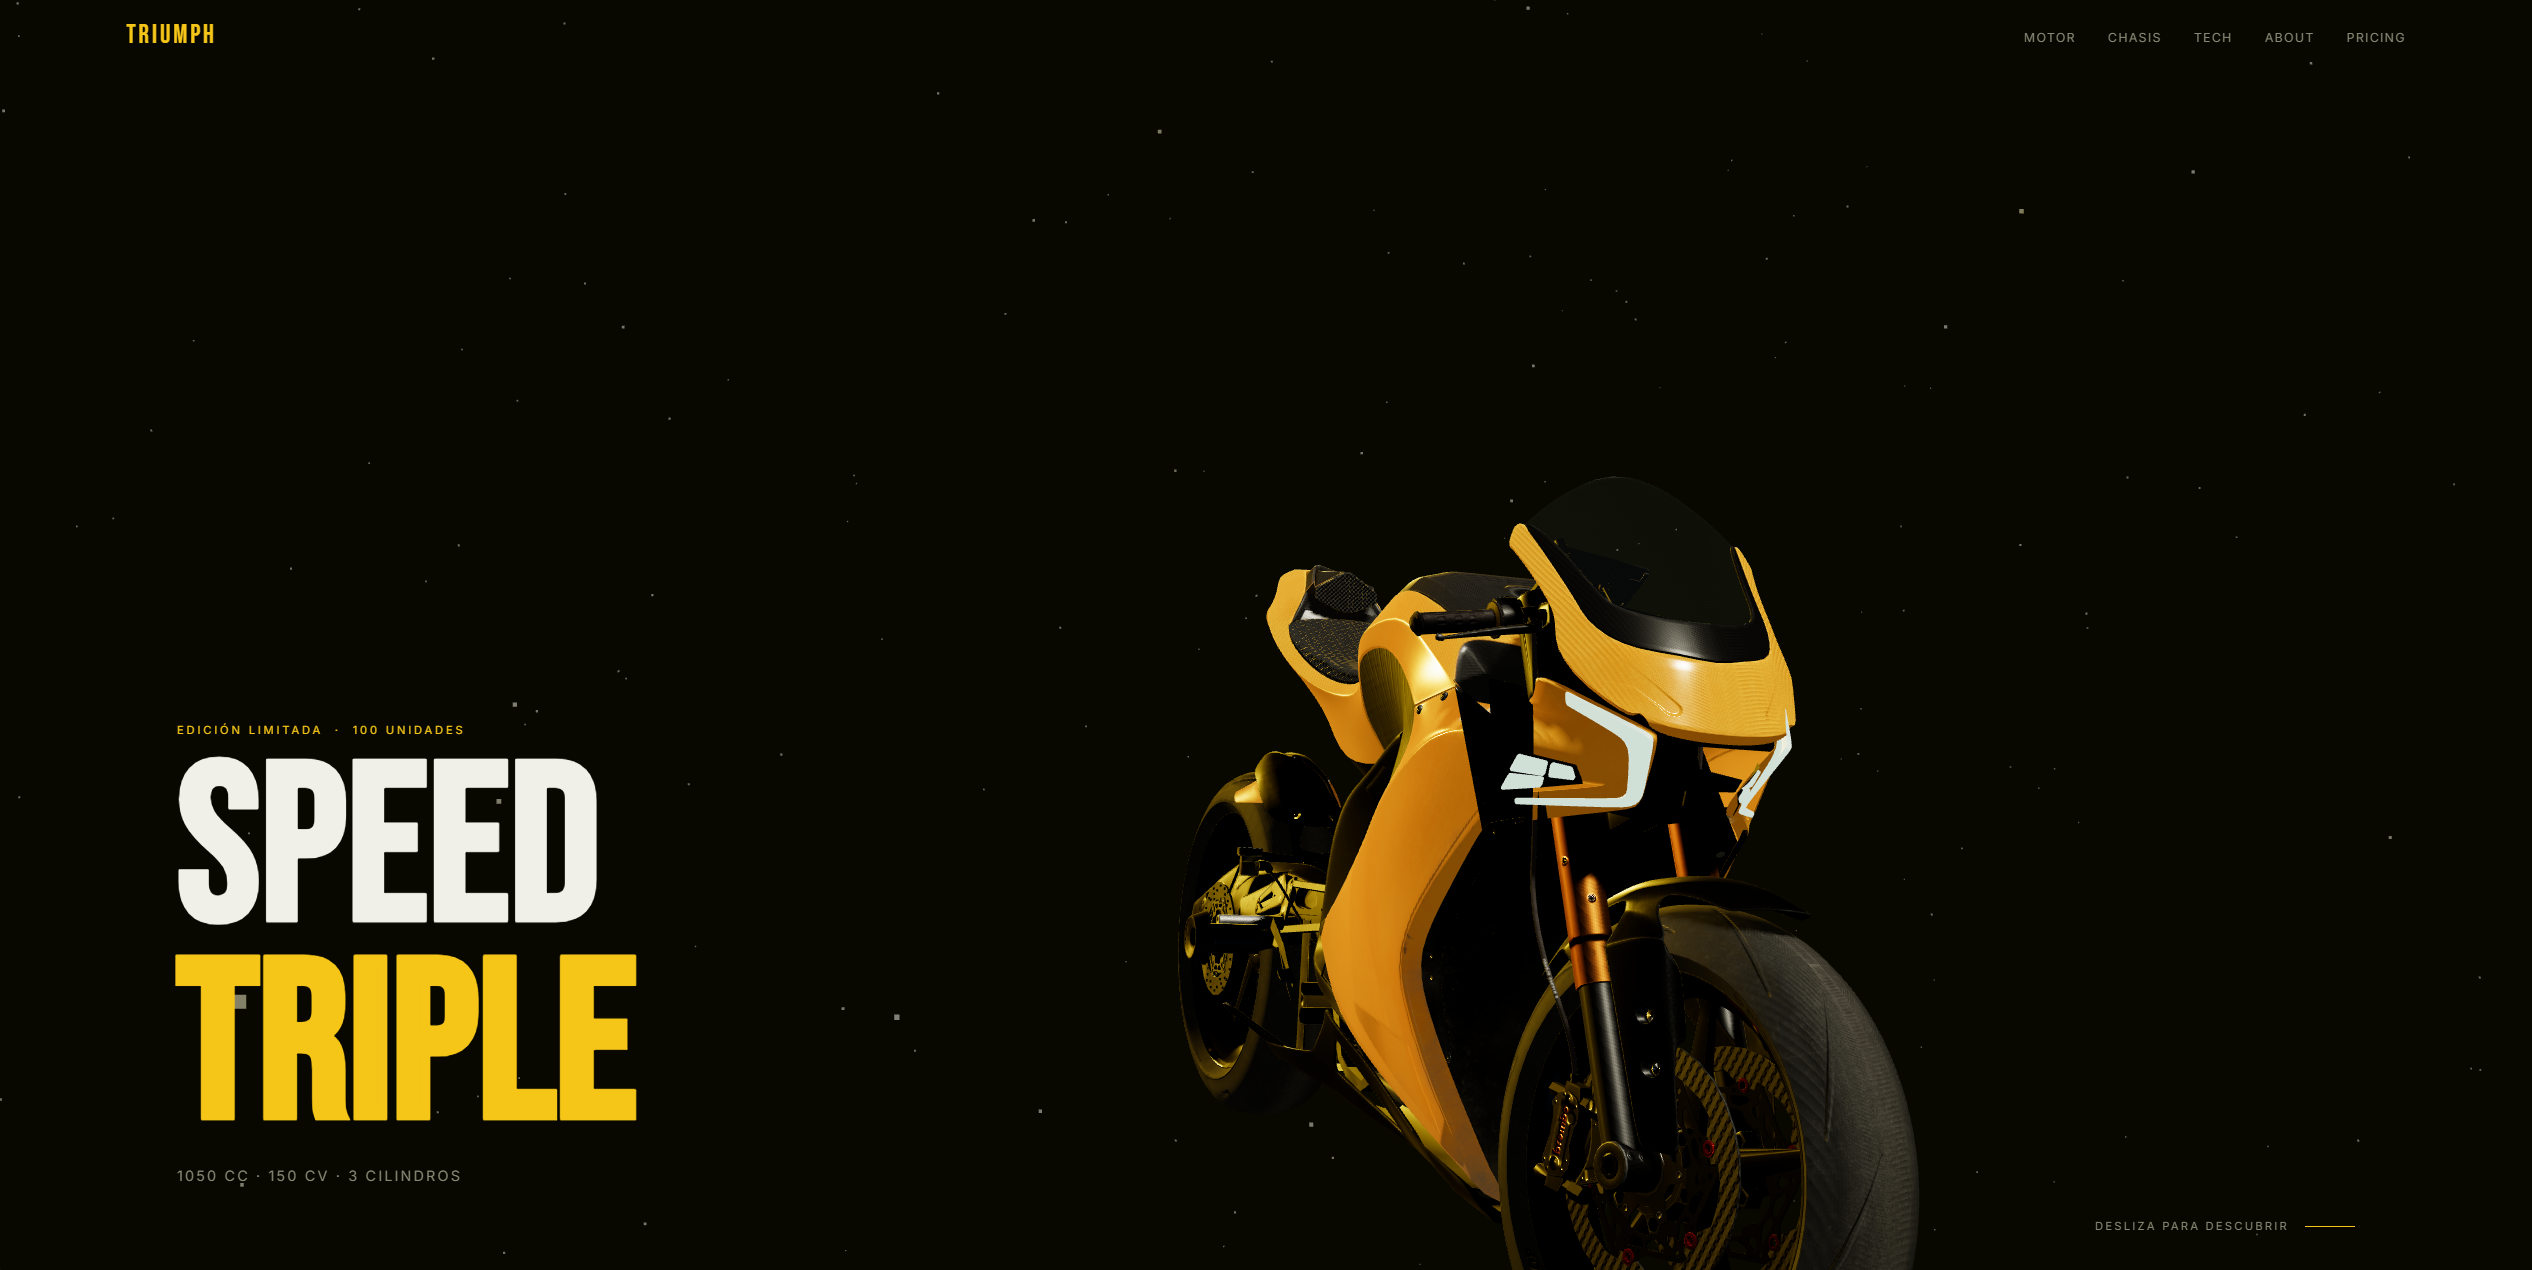
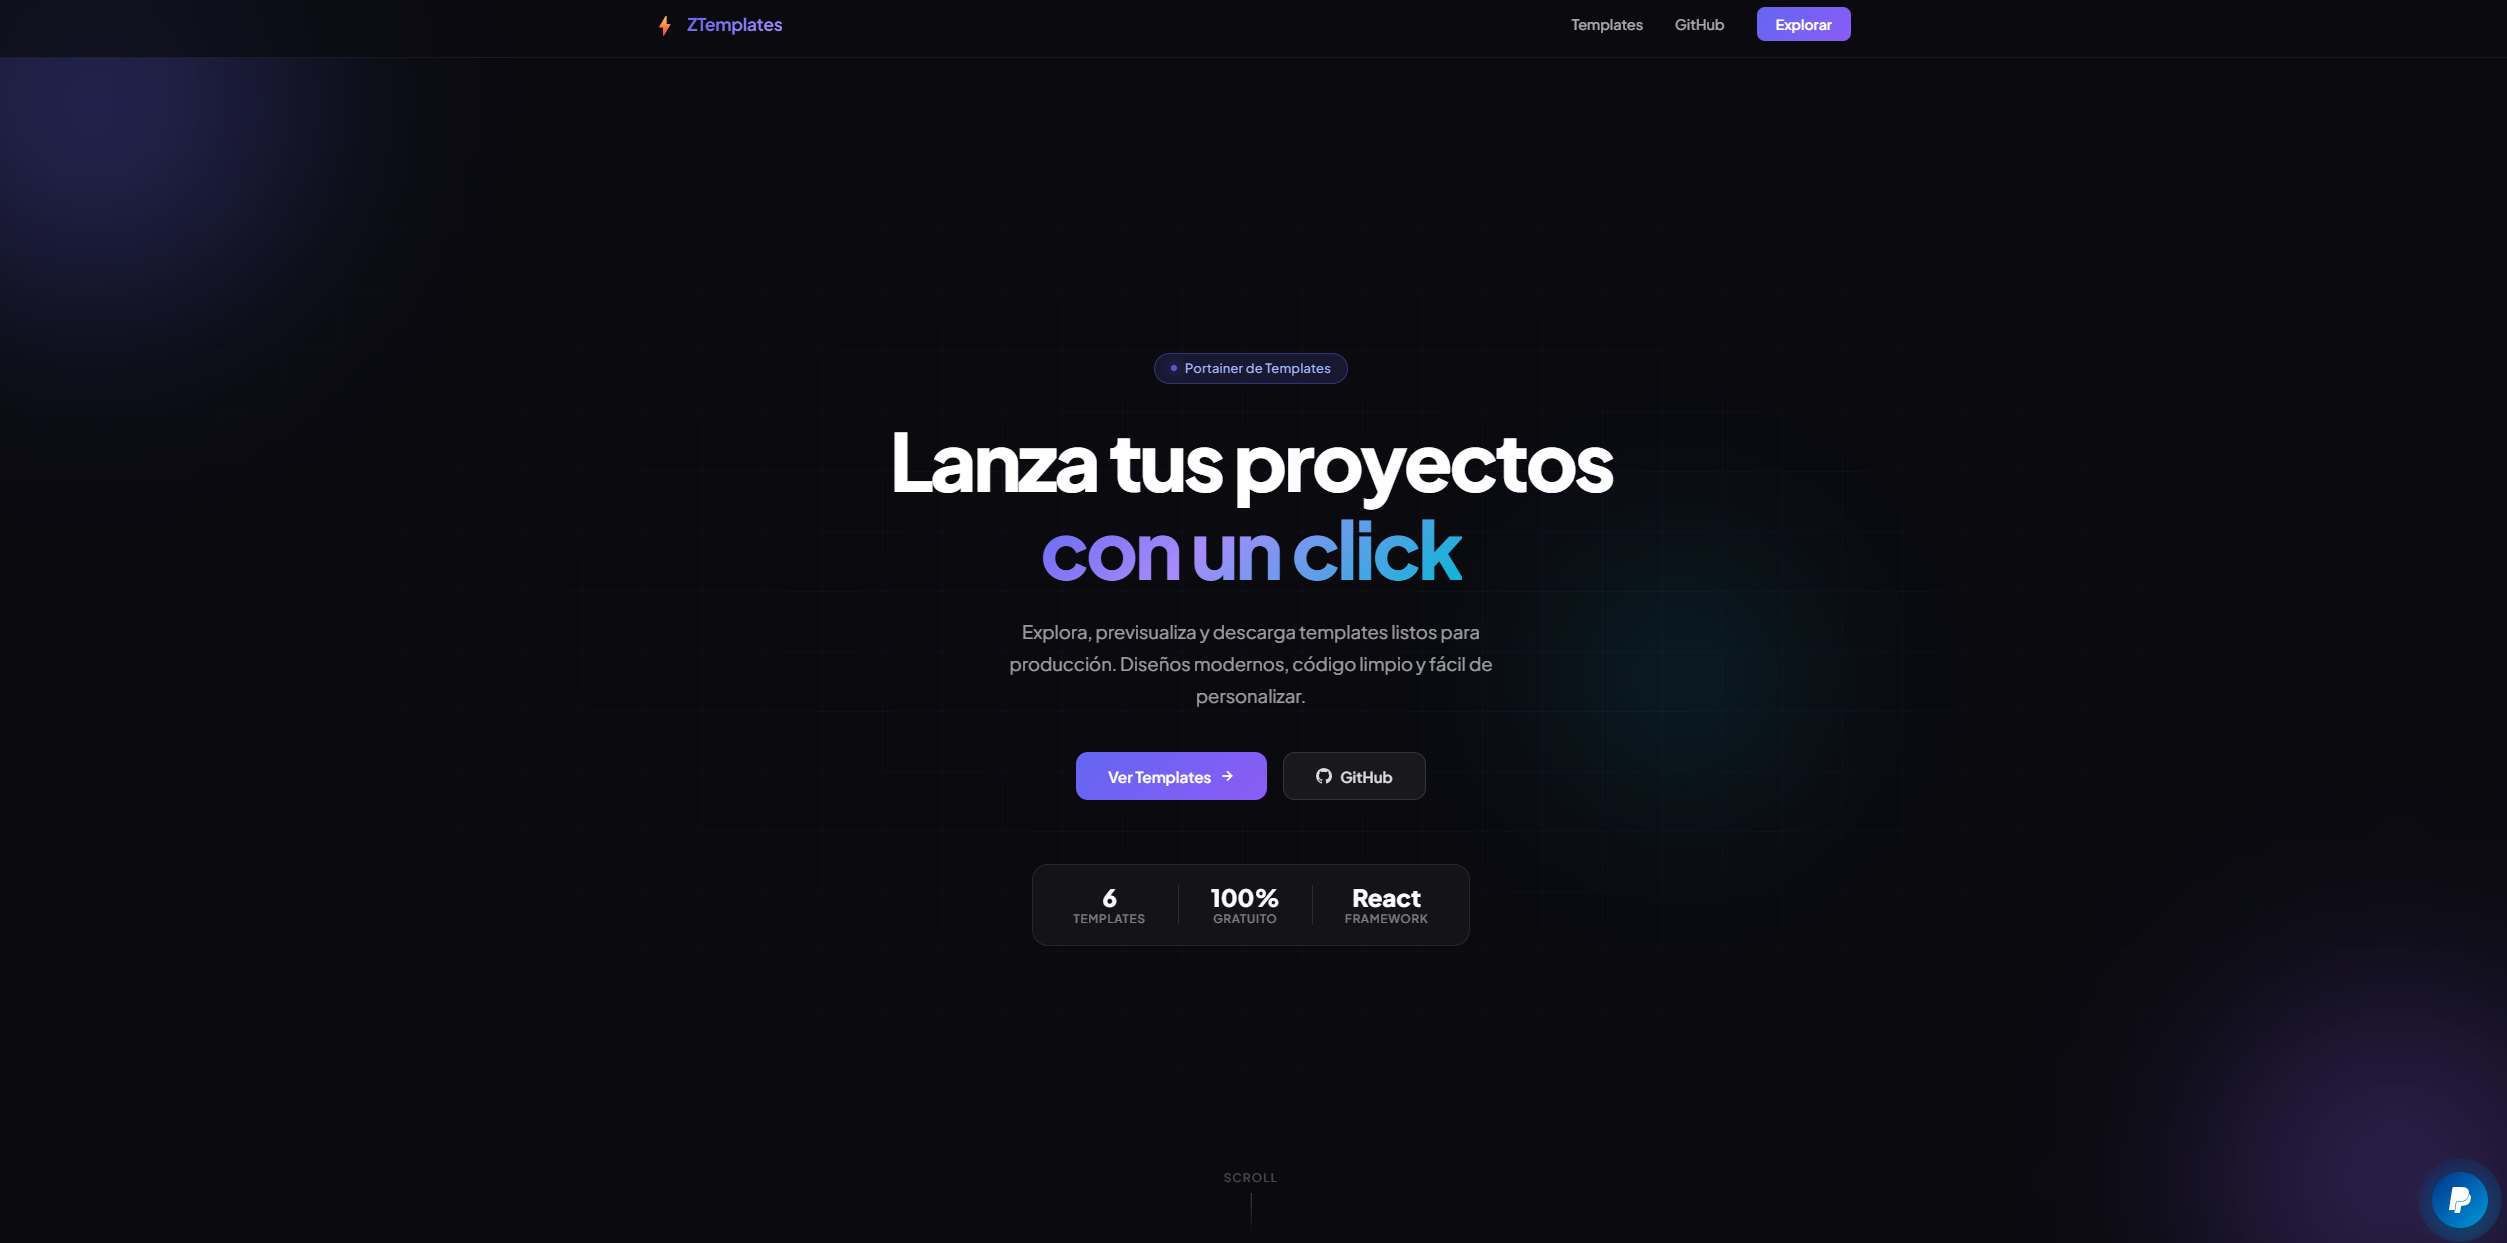
Update

diff --git a/index.html b/index.html
@@ -53,7 +53,7 @@
             <li><a href="#projects" data-cursor-text="Ir a la seccion de Proyectos">Proyectos</a></li>
             <li><a href="#contacto" data-cursor-text="Ir a la seccion de Contacto">Contacto</a></li>
             <li class="nav-stats-item">
-                <button class="nav-stats-trigger" type="button" aria-label="Informacion de estadisticas anonimas" aria-describedby="navStatsTooltip" data-cursor-text="Ver informacion de estadisticas anonimas">
+                <button class="nav-stats-trigger" type="button">
                     <span class="nav-stats-icon" aria-hidden="true">
                         <svg viewBox="0 0 24 24" width="20" height="20" stroke="currentColor" stroke-width="2" fill="none" stroke-linecap="round" stroke-linejoin="round">
                             <line x1="4" y1="20" x2="20" y2="20"></line>
@@ -358,14 +358,14 @@
                     </div>
                     <div class="projects-track">
                         <div class="project-wrapper">
-                            <a href="https://animation3d.cesarsobrino.es" target="_blank" rel="noopener noreferrer" class="project-link" data-cursor-text="animation3d.cesarsobrino.es">
+                            <a href="https://templates.cesarsobrino.es/" target="_blank" rel="noopener noreferrer" class="project-link" data-cursor-text="templates.cesarsobrino.es">
                                 <div class="project-item">
-                                    <img src="assets/img/proyects/front-page/Proyects_animations.png" alt="Project Animations">
-                                    <img class="project-gif" src="assets/img/proyects/videos/animations3d.gif" alt="Animations 3D GIF">
+                                    <img src="assets/img/proyects/front-page/Proyects_animations.png" alt="Project templates">
+                                    <img class="project-gif" src="assets/img/proyects/videos/animations3d.gif" alt="Templates GIF">
                                 </div>
                                 <div class="project-info">
-                                    <h3>Animations 3d</h3>
-                                    <p>Proyecto personal de motos con animaciones scroll y modelos 3d con librerias de externos para dar una funcionalidad moderna y 3d al usuario.</p>
+                                    <h3>Templates</h3>
+                                    <p>Proyecto personal de donde se guardan las templates creadas para uso y descarga gratutia.</p>
                                 </div>
                             </a>
                         </div>